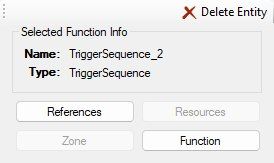
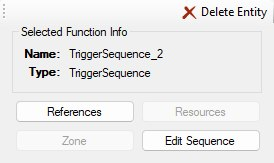
docs

Changed region(s): [[0.5839, 0.8282, 0.8759, 0.8896]]

diff --git a/docs/changelog/index.html b/docs/changelog/index.html
@@ -189,6 +189,7 @@
 				<li>See realtime script activity in the flowgraph including active links and trigger counts via new highlighted links and method/target annotations</li>
 				<li>Trigger methods on entities manually via a new dropdown in the inspector</li>
 				<li>Sync the camera to the viewport to see the in-game camera position in OpenCAGE, or vice-versa</li>
+				<li>Capture new cubemaps for EnvironmentMap entities in-game (one at a time from the inspector, or all at once with File &gt; Recapture All Cubemaps) - they're automatically imported and assigned, replacing the old ones, at their size or one picked in Misc &gt; Cubemap Capture Size</li>
 			</ul></li>
 			<li>Added a new 'Save and Build' (instancing) option in the File menu:<ul>
 				<li>Generates instance-specific materials and properties for static geometry based on materials, remappings, and aliases</li>
@@ -202,6 +203,44 @@
 				<li>Generates environment animation links and other structuring for renderables and resources</li>
 				<li>Generates BVHs for occlusion and lighting</li>
 				<li>Generates environment map links</li>
+			</ul></li>
+			<li>Improved viewport:<ul>
+				<li>Added galaxy rendering in the viewport (which can be disabled) - live syncs to changes in the Galaxy Editor</li>
+				<li>Added a number of material improvements to the viewport (some optional) including planar reflections, cubemaps, and gas giant</li>
+				<li>Viewport now has anti-aliasing options</li>
+				<li>Vast performance improvements in the viewport, with configurable draw distance</li>
+				<li>Improvements to total memory overhead for the viewport</li>
+				<li>Added support for syncing modified resources (textures, models, materials) to the viewport - including newly imported ones</li>
+				<li>Added new options for rendering selected entities: wireframe, transparent wireframe, none</li>
+				<li>Added additional render filters for a variety of Sphere types, and others</li>
+				<li>Added new render filter to show Occlusion Meshes and Collision Meshes</li>
+				<li>Added ability to preview Zones in the viewport (will draw zoned entities in distinct colours when enabled, and highlight nodes)</li>
+				<li>Added new option to show state resources (navmesh, cover positions) in the viewport - will re-sync on rebuild</li>
+				<li>Added ability to highlight all entities in a TriggerSequence in the viewport when selected</li>
+				<li>Added a new 'Create' dropdown in the viewport UI which, when enabled, allows you to click on the viewport to create a new entity at that position</li>
+				<li>Added ability to drag and drop composites into the viewport to place them</li>
+				<li>Added drag-select in the viewport to multi-select entities</li>
+				<li>Added support for multi-select moving of objects in the viewport</li>
+				<li>Added right click in the viewport with appropriate options</li>
+				<li>Added ability to modify splines via the viewport</li>
+				<li>Added a new vertex snapping mode (hold V when dragging, or keep it on from the Transform Snap menu)</li>
+				<li>Added a new surface snapping mode (SHIFT+END keys)</li>
+				<li>Added ability to configure rotation/translation snapping increments</li>
+				<li>Added a new 'drag to duplicate' mode (hold SHIFT when dragging the gizmo)</li>
+				<li>Added ability to move the origin point for transform controls in the viewport (CTRL+SHIFT)</li>
+				<li>World rotation gizmo in viewport now turns with the rotation</li>
+				<li>Added new 'Focus on Selected' and 'Fix Camera on Selected' options for the viewport</li>
+				<li>Improved 'focus on selected' mode in the viewport - it no longer jumps when stepping the hierarchy</li>
+				<li>Added a ruler to measure distances in the viewport</li>
+				<li>Added crash log reporting for the viewport</li>
+				<li>Fixed rotation issue for spotlight previews in the viewport</li>
+				<li>Fixed some memory leaks within the viewport which caused silent crashes</li>
+				<li>Fixed a separate window appearing briefly when viewport initialises</li>
+				<li>Fixed vertex colours in the viewport</li>
+				<li>Fixed a bug where moving an entity in the viewport with multiple transform parameters would update all of them</li>
+				<li>Fixed a bug where force closing OpenCAGE could leave a viewport process open in the background</li>
+				<li>Fixed composites failing to render in the viewport when their models weren't loaded during the initial populate</li>
+				<li>Fixed small composites (pickups and similar) being framed so far away they appeared as a speck</li>
 			</ul></li>
 			<li>New animation clip editor:<ul>
 				<li>Browse all available animations by character or env model and context</li>
@@ -276,6 +315,7 @@
 				<li>Added a purple highlight to parameters which are controlled by CAGEAnimations</li>
 				<li>Zone name now shows on 'Zone' button if one, or opens a list if multiple - this calculation is performed from the root of the active hierarchy</li>
 				<li>Modified utility buttons to be on two rows</li>
+				<li>The Function button is now named after what it does for the selected entity (Edit Tracks, Edit Sequence, Edit Character, Capture)</li>
 			</ul></li>
 			<li>Reworked TriggerSequence editor:<ul>
 				<li>Added support for dragging and dropping TriggerSequence entries</li>
@@ -322,36 +362,22 @@
 			<li>Added support for undo/redo</li>
 			<li>Added ability to render DebugText, DebugTextStacking, DebugEnvironmentMarker, and DebugPositionMarker outputs in-game via an overlay</li>
 			<li>Added a dropdown next to the new back button to view up to five previously loaded composites</li>
-			<li>Added a new 'Create' dropdown in the viewport UI which, when enabled, allows you to click on the viewport to create a new entity at that position</li>
-			<li>Added ability to drag and drop composites into the viewport to place them</li>
 			<li>Added new annotations on nodes - you'll see (P) for ones that are proxied elsewhere, and (*) for ones that have one or more other nodes for the same entity</li>
 			<li>Added a new Blend Set editor for animations</li>
 			<li>Added preview icons for composites in the selector/browser, these will update when you make modifications</li>
-			<li>Added ability to preview Zones in the viewport (will draw zoned entities in distinct colours when enabled, and highlight nodes)</li>
 			<li>Added an improved check for circular dependencies when making new instances</li>
 			<li>Added new tools for automatically reorganising untidy flowgraph pages</li>
 			<li>Added a new 'unsaved changes' tracker, which will highlight in the taskbar when a modification has been made and not saved</li>
-			<li>Added additional render filters for a variety of Sphere types, and others</li>
-			<li>Added new render filter to show Occlusion Meshes and Collision Meshes</li>
 			<li>Added functionality to copy composites (including in-place replacements of instances with copies)</li>
 			<li>Added functionality to de-instance a composite, or create a composite from group selection</li>
-			<li>Added new option to show state resources (navmesh, cover positions) in the viewport - will re-sync on rebuild</li>
-			<li>Added drag-select in the viewport to multi-select entities</li>
-			<li>Added right click in the viewport with appropriate options</li>
 			<li>Added new achievements on Steam, and updated icons of all existing ones</li>
-			<li>Added galaxy rendering in the viewport (which can be disabled) - live syncs to changes in the Galaxy Editor</li>
-			<li>Added a number of material improvements to the viewport (some optional) including planar reflections, cubemaps, and gas giant</li>
 			<li>Added ability to sort the entity list by clicking the columns</li>
 			<li>Added ability to modify damage ranges in the ammo config editor</li>
 			<li>Added controls for the behaviour tree editor to the controls window</li>
-			<li>Added ability to modify splines via the viewport</li>
-			<li>Added support for syncing modified resources (textures, models, materials) to the viewport - including newly imported ones</li>
 			<li>Added ability for child OpenCAGE editors to gain control of directory editing when primary is closed</li>
 			<li>Added auto complete for SwitchLevel level input</li>
 			<li>Added ability to rebind the hot reload key</li>
 			<li>Added functionality to click pins to link them, instead of dragging</li>
-			<li>Added support for multi-select moving of objects in the viewport</li>
-			<li>Added new options for rendering selected entities: wireframe, transparent wireframe, none</li>
 			<li>Added a Voice Mappings editor</li>
 			<li>Added a Level Text Database editor</li>
 			<li>Added a Font Config editor</li>
@@ -363,12 +389,8 @@
 			<li>Added new dotted outline for proxy/alias nodes</li>
 			<li>Added back the legacy Graphics Editor</li>
 			<li>Added warnings if saving fails when updating configs</li>
-			<li>Added a new vertex snapping mode (hold V when dragging, or keep it on from the Transform Snap menu)</li>
-			<li>Added ability to configure rotation/translation snapping increments</li>
 			<li>Added right click to add to TriggerSequence on node</li>
 			<li>Added improved hierarchy navigation in the proxy/alias selector</li>
-			<li>Added a new surface snapping mode (SHIFT+END keys)</li>
-			<li>Added a new 'drag to duplicate' mode (hold SHIFT when dragging the gizmo)</li>
 			<li>Added support for multi-select deletion in the flowgraph, viewport, and entity list</li>
 			<li>Added new 'Unlock Mouse' launch option which toggles allowing the game to steal your cursor</li>
 			<li>Added ability to rename imported models</li>
@@ -381,7 +403,6 @@
 			<li>Added a window to show all links in and out of a script entity on a flowgraph page</li>
 			<li>Added ability to flag vector parameters as colours on composites</li>
 			<li>Added ability to possess characters via launch game (press F6 - rebindable - to select a character to control)</li>
-			<li>Added new 'Focus on Selected' and 'Fix Camera on Selected' options for the viewport</li>
 			<li>Added an option to save when closing with a level open</li>
 			<li>Added some potential improvements for hit testing in the flowgraph view</li>
 			<li>Added argument to allow folder selection when picking game installs</li>
@@ -391,26 +412,19 @@
 			<li>Added ability to create new behaviour trees</li>
 			<li>Added info popup about how the config editors save</li>
 			<li>Added ability to right click and delete referenced instances of an entity</li>
-			<li>Added ability to highlight all entities in a TriggerSequence in the viewport when selected</li>
-			<li>Added a ruler to measure distances in the viewport</li>
 			<li>Added a cooldown when creating backups to prevent causing UI deadlocks</li>
 			<li>Added support for renaming folders in the composite browser</li>
 			<li>Added support for dragging composites/folders to move them in file browser mode</li>
 			<li>Added arrows to point to off-screen highlighted nodes</li>
 			<li>Added a progress UI for multi-export models/textures</li>
 			<li>Added search on the 'Select Destination Pin' window, and now sorted alphabetically</li>
-			<li>Added ability to move the origin point for transform controls in the viewport (CTRL+SHIFT)</li>
 			<li>Added a button to view changelog</li>
 			<li>Added a button to view raw crash logs</li>
-			<li>Added crash log reporting for the viewport</li>
 			<li>Added context-aware positioning of pins on nodes (relays will always have their output in-line with their input)</li>
 			<li>Fixed 'Find References' right click on the entity list</li>
-			<li>Fixed rotation issue for spotlight previews in the viewport</li>
 			<li>Fixed dropdowns sticking on screen</li>
 			<li>Fixed an issue where multiple flowgraph layouts wouldn't appear due to name duplication</li>
-			<li>Fixed some memory leaks within the viewport which caused silent crashes</li>
 			<li>Fixed an issue where viewcones would break upon modification</li>
-			<li>Fixed a separate window appearing briefly when viewport initialises</li>
 			<li>Fixed some cases where resolvable proxies/aliases were discarded</li>
 			<li>Fixed selection steal when using keybinds to navigate UI</li>
 			<li>Fixed a bug where resources were thrown away for Commands BIN</li>
@@ -433,13 +447,8 @@
 			<li>Fixed instances where some popups would unexpectedly close on editor context changes (e.g. selecting a new entity)</li>
 			<li>Fixed a crash when using Ctrl+MMB shortcut in entity hierarchy picker</li>
 			<li>Fixed some minor issues when resizing popups</li>
-			<li>Fixed vertex colours in the viewport</li>
 			<li>Fixed incorrect face ordering in cubemap previews (and added a new spherical preview mode)</li>
 			<li>Fixed grouping in Entity Palette after searching</li>
-			<li>Fixed a bug where moving an entity in the viewport with multiple transform parameters would update all of them</li>
-			<li>Fixed a bug where force closing OpenCAGE could leave a viewport process open in the background</li>
-			<li>Fixed composites failing to render in the viewport when their models weren't loaded during the initial populate</li>
-			<li>Fixed small composites (pickups and similar) being framed so far away they appeared as a speck</li>
 			<li>Fixed disabled checkboxes being unreadable in dark mode</li>
 			<li>Certain entity resources are now auto generated, as such the 'Resources' button only shows for editable ones</li>
 			<li>Reworked the back button - it now takes you to the previously loaded composite, and is no longer relative to the currently loaded hierarchy</li>
@@ -451,14 +460,9 @@
 			<li>Behaviour tree DB in levels are regenerated when saving based on selected trees in the attribute editor</li>
 			<li>Reworked the launch game tool - you can now check to load into a level, otherwise it will load to frontend as normal (clearer)</li>
 			<li>Moved help buttons to the title bar, and linked through to new docs for all forms</li>
-			<li>World rotation gizmo in viewport now turns with the rotation</li>
 			<li>Optimised saving logic, viewport population, and level loading - should be noticeably faster</li>
-			<li>Improved 'focus on selected' mode in the viewport - it no longer jumps when stepping the hierarchy</li>
 			<li>Improved quality of various icons across the UI</li>
 			<li>Selecting an Animation or AnimationSet will fill in the alternate too</li>
-			<li>Improvements to total memory overhead for the viewport</li>
-			<li>Viewport now has anti-aliasing options</li>
-			<li>Vast performance improvements in the viewport, with configurable draw distance</li>
 			<li>NPC_AlienConfig entities now have selection for the config type</li>
 			<li>RewireLocation/Display_Element_On_Map/MapAnchor/Map_Floor_Change entities now have selection for the map elements</li>
 			<li>Deleting all nodes for an entity with no other references can now auto-delete the entity (optional under 'Delete Entities When Nodes Deleted')</li>

diff --git a/docs/scripting-intro/index.html b/docs/scripting-intro/index.html
@@ -186,7 +186,7 @@
         <p>There are hundreds of function entities available to use, ranging from simple mathematical logic to more complex tasks like setting objectives and playing sounds. A full list of function entities and their parameters can be found <a href="https://opencage.co.uk/docs/cathode-entities/">here</a>!</p>
         <p>For programmers: think of function entities as literally executing methods in code - the parameters you give them are just method arguments. For Unreal Engine developers, again this concept should seem very familiar to you with standard Blueprint nodes.</p>
         <p>In the entity list and on the inspector's tab, a function entity shows the icon its type has in the Entity Palette: an icon of its own for the most used types, such as ModelReference, or else its category's. The braces beside this heading are only used for a type with neither.</p>
-        <p>It&rsquo;s worth highlighting that there are three function entities which have an additional editor window, opened with the inspector&rsquo;s <b>Function</b> button: &ldquo;CAGEAnimation&rdquo;, &ldquo;TriggerSequence&rdquo; and &ldquo;Character&rdquo; entities. The <a href="/docs/character-editor/">Character Editor</a> sets how a Character looks and sounds where it&rsquo;s placed: its body parts, skeleton, voice and so on. CAGEAnimation entities are special scripted sequences which contain a timeline and can modify parameters and activate triggers over a specified time period using keyframes and animation curves. TriggerSequence entities define a collection of references to other entities with a specified delay between each reference, this can then be used for a variety of things such as referencing a collection of entities for use in something like a &ldquo;Zone&rdquo;, or for triggering a parameter on those entities with a delay (for example, triggering a sequence of &ldquo;LightReference&rdquo; entities to turn on 1 second apart).</p>
+        <p>It&rsquo;s worth highlighting that there are three function entities which have an additional editor window, opened with the inspector&rsquo;s function button (named <b>Edit Tracks</b>, <b>Edit Sequence</b> or <b>Edit Character</b> after what it opens): &ldquo;CAGEAnimation&rdquo;, &ldquo;TriggerSequence&rdquo; and &ldquo;Character&rdquo; entities. The <a href="/docs/character-editor/">Character Editor</a> sets how a Character looks and sounds where it&rsquo;s placed: its body parts, skeleton, voice and so on. CAGEAnimation entities are special scripted sequences which contain a timeline and can modify parameters and activate triggers over a specified time period using keyframes and animation curves. TriggerSequence entities define a collection of references to other entities with a specified delay between each reference, this can then be used for a variety of things such as referencing a collection of entities for use in something like a &ldquo;Zone&rdquo;, or for triggering a parameter on those entities with a delay (for example, triggering a sequence of &ldquo;LightReference&rdquo; entities to turn on 1 second apart).</p>
         <p>You may now be asking &ndash; what is a Zone? Cathode utilises something known as &ldquo;level streaming&rdquo;, which is a way of loading chunks of a level at runtime, rather than loading the entire thing at once. Zone entities are the key to this level streaming system &ndash; each Zone defines a collection of entities within it (typically &ldquo;ModelReference&rdquo; entities) which are then rendered/loaded when the Zone is active, and not when it&rsquo;s inactive. This system is key to keeping memory overheads down in larger levels.</p>
         <p>There are a variety of other specifics to dive into for other function entity types as you may expect, since they all perform bespoke logic that can have its own edge cases. The OpenCAGE docs don&rsquo;t currently go into each and every function type as there are hundreds to cover, so recommended practice is to infer for yourself. Typically the names are pretty self explanatory &ndash; that, tied with reading and understanding the list of available parameters should probably be enough to get the function&rsquo;s purpose. You can additionally switch the <b>Search</b> panel to <b>Function Entities</b> and pick a function type to list the entities of that type in the composite you opened and everything it instances (from the root composite, that&rsquo;s everything placed in the level), or pick <b>Search All Composites</b> from the cog at the panel&rsquo;s top right to list them in every composite. That should give you good context surrounding the usage and setup of each. Don&rsquo;t forget as well, the <a href="https://discord.gg/JJ4ECu9hpY">OpenCAGE Discord</a> is always on hand to help!</p>
     </section>
@@ -282,7 +282,7 @@
 			<li><b>Purple value cell</b> — this parameter is driven by a <a href="/docs/cage-animation-editor/">CAGEAnimation</a> somewhere in the hierarchy you're in. The value here is what the entity rests at when nothing is playing; while the animation runs it's overwritten outright by the keyframe values (they're absolute, not offsets from this), so the animation needn't start from what the inspector shows.</li>
 		</ul>
 		<p>Those highlights are worth taking seriously: "I changed the value and nothing happened" is nearly always one of them.</p>
-		<p>Above the parameters, the <b>Zone</b> button tells you which <a href="#function-entities">Zone</a> the entity is streamed with, worked out from the root of the hierarchy you've stepped through. It reads <b>Zone (<i>name</i>)</b> when the entity is in one zone and <b>Zones (<i>N</i>)</b> when it's in several (click it to pick which to go to); a long name can run off the button, so hover it for the name in full. It's a greyed-out <b>Zone</b> when the entity isn't in any, as in the <a href="#creating-script">tutorial picture</a> below. <b>References</b> finds every node, alias and proxy for the entity, and <b>Resources</b> edits the resources attached to it (it's greyed out for a type that has none, such as a PopupMessage). <b>Function</b> opens the editor for the types that have one of their own: the <a href="/docs/cage-animation-editor/">CAGEAnimation</a>, <a href="/docs/trigger-sequence-editor/">TriggerSequence</a> and <a href="/docs/character-editor/">Character</a> editors, the TriggerSequence one for a proxy to a TriggerSequence too. For a composite instance, <b>Go</b> steps into it; for a proxy or alias, it takes you to the entity it points at. <b>Delete Entity</b> sits at the top.</p>
+		<p>Above the parameters, the <b>Zone</b> button tells you which <a href="#function-entities">Zone</a> the entity is streamed with, worked out from the root of the hierarchy you've stepped through. It reads <b>Zone (<i>name</i>)</b> when the entity is in one zone and <b>Zones (<i>N</i>)</b> when it's in several (click it to pick which to go to); a long name can run off the button, so hover it for the name in full. It's a greyed-out <b>Zone</b> when the entity isn't in any, as in the <a href="#creating-script">tutorial picture</a> below. <b>References</b> finds every node, alias and proxy for the entity, and <b>Resources</b> edits the resources attached to it (it's greyed out for a type that has none, such as a PopupMessage). The button beside them is named after what it does for the selected entity: <b>Edit Tracks</b> opens the <a href="/docs/cage-animation-editor/">CAGEAnimation Editor</a>, <b>Edit Sequence</b> the <a href="/docs/trigger-sequence-editor/">TriggerSequence Editor</a> (for a proxy to a TriggerSequence too), <b>Edit Character</b> the <a href="/docs/character-editor/">Character Editor</a>, and on an EnvironmentMap, <b>Capture</b> <a href="/docs/live-link/#capture-cubemaps">captures its cubemap</a> in the running game. For any other entity it reads <b>Function</b> and is greyed out. For a composite instance, <b>Go</b> steps into it; for a proxy or alias, it takes you to the entity it points at. <b>Delete Entity</b> sits at the top.</p>
 		<p>The references window is also where you take a reference away: right-click a row (or select several and press <b>Delete</b>) to delete the alias or proxy, remove the entity from that TriggerSequence or CAGEAnimation, or clear its nodes from that flowgraph. Each removal is an undo step, and the lists update as you go.</p>
 		<p>For a proxy, the toolbar also has <b>Change Target</b>, which opens the proxy picker to point it at a different entity while keeping its links and parameters. The path shown under the name is where the proxy leads; for an <a href="/docs/composite-porting/#unresolvable-proxies">unresolvable proxy</a> it stops at the first hop that no longer exists, marked <b>MISSING</b>.</p>
 		<p>While <a href="/docs/live-link/">Live Link</a> is connected to the running game, the toolbar also starts with <b>▶ Trigger Method</b>, a dropdown of every method the entity has (<b>start</b>, <b>stop</b>, <b>pause</b>, <b>resume</b>... on a DebugTextStacking). It needs a single entity selected, and one with methods. Pick a method and it's triggered on the entity in the game, in the instance you stepped down to from the level's root, or in every running instance if you opened the composite on its own. Right-clicking a method pin on the flowgraph does the same for that one method (see <a href="#node-annotations">Reading the Flowgraph</a>). See <a href="/docs/live-link/#calling-methods">Triggering Methods</a>.</p>

diff --git a/docs/live-link/index.html b/docs/live-link/index.html
@@ -107,6 +107,7 @@
 <li class="nav-item"><a class="nav-link scrollto" href="#activity-instance">Which Instance</a></li>
 <li class="nav-item"><a class="nav-link scrollto" href="#activity-limits">Limits</a></li>
 <li class="nav-item section-title"><a class="nav-link scrollto" href="#camera"><span class="theme-icon-holder me-2"><i class="fas fa-scroll"></i></span>Live Link Camera</a></li>
+<li class="nav-item section-title"><a class="nav-link scrollto" href="#capture-cubemaps"><span class="theme-icon-holder me-2"><i class="fas fa-scroll"></i></span>Capturing Environment Maps</a></li>
 <li class="nav-item section-title"><a class="nav-link scrollto" href="#ai-assistants"><span class="theme-icon-holder me-2"><i class="fas fa-scroll"></i></span>AI Assistants</a></li>
 <li class="nav-item section-title"><a class="nav-link scrollto" href="#troubleshooting"><span class="theme-icon-holder me-2"><i class="fas fa-scroll"></i></span>Troubleshooting</a></li>
 <li class="nav-item"><a class="nav-link scrollto" href="#status-messages">What the Status Bar Says</a></li>
@@ -465,6 +466,36 @@
     </section>
 </article>
 
+<article class="docs-article" id="capture-cubemaps">
+    <header class="docs-header">
+<h1 class="docs-heading">Capturing Environment Maps</h1>
+    </header>
+
+	<section class="docs-section" style="padding-top:0;">
+		<p>An <b>EnvironmentMap</b> entity gives the models it's linked to a cubemap to reflect: a picture of the room all around a point, taken from where the entity is. When you change a room, its reflections still show the room as it was. Live Link can take a new one in the running game, showing the room as it is now.</p>
+		<p>While connected, select an EnvironmentMap entity and press <b>Capture</b> in the <a href="/docs/scripting-intro/#inspector">Entity Inspector</a> (the button that reads <b>Function</b> for most entities; it's greyed out while Live Link isn't connected, and reads <b>Capturing...</b> while a capture runs). It takes a few seconds:</p>
+		<ol>
+			<li>The game moves its camera to the entity's position and streams in the zones around it (the overlay in the game says what it's waiting for).</li>
+			<li>It draws the six views of a cube from there, each 90 degrees wide (+X, -X, +Y, -Y, +Z, -Z), and sends them to OpenCAGE. The game's HUD is hidden while it does, and so are the lens effects that don't belong in a reflection: film grain, vignette, chromatic aberration, lens distortion and depth of field. Then the game gets its camera back.</li>
+			<li>OpenCAGE builds a cubemap shaped like the game's own: the size and format of the one it replaces (the game's are all 128 × 128 faces, nearly all in DXT1), with mip levels down to 2 × 2, each level blurred more than the last the way the game's are, so rough surfaces show a soft reflection and shiny ones a sharp one.</li>
+			<li>It's added to the level's textures as <code>ayz\env\cubemaps\<i>level</i>\<i>composite</i>\<i>composite</i>_<i>entity</i>.dds</code> (with a number on the end if that's taken), and the entity's <b>Texture</b> is set to it.</li>
+			<li>The cubemap the entity used before is deleted if nothing else uses it: no other entity names it, no material uses it, and it isn't one of the GLOBAL textures every level carries. The models that were reflecting it are given the new one.</li>
+		</ol>
+		<p>To capture at another size, pick one under <b>Options &gt; Misc &gt; Cubemap Capture Size</b>: 64, 128, 256 or 512 pixels a face, or <b>Same as the Cubemap Replaced</b> (the default). A bigger cubemap gives mirror-like surfaces a sharper reflection, and leaves rough ones as blurred as before. The faces are cut from the game's picture, so its window needs to be at least as tall as them; if it isn't, they're stretched up and the status bar says so.</p>
+		<p>It's one step on the undo history: undo takes the new cubemap out and puts the old one, and the entity's Texture, back. The status bar says <b>Live Link: Captured <i>entity</i>'s cubemap at (<i>x</i>, <i>y</i>, <i>z</i>) as <i>texture</i></b>, or why it couldn't.</p>
+		<p><b>To see it in the game, save, then load the level again</b>: the game reads cubemaps when it loads a level. If the old cubemap is still used by another EnvironmentMap, the models this one lights keep it until a <a href="/docs/save-and-build/">Save &amp; Build</a> works out again which cubemap each model reflects, and the status bar asks for one.</p>
+		<p><b>File &gt; Recapture All Cubemaps</b>, below Export Composites, does the same for every EnvironmentMap in the level, one after another, with a progress bar (a few seconds each: a level with 50 takes about four minutes). Keep the game running and unpaused meanwhile; the editor stays usable. Choose it again (it reads <b>Stop Recapturing Cubemaps</b>) to stop after the one being captured. It stops by itself if the game turns a capture away, and skips any EnvironmentMap whose composite is used in more than one place, or not at all. Each cubemap is its own step on the undo history, and a summary at the end says how many it captured, which it couldn't and why, and whether to save or Save &amp; Build.</p>
+		<p>The capture is taken from where the entity is in the level: through the instances you stepped down through from the root composite (the path at the top of the composite panel), or, if you opened its composite on its own, the one place that composite is used. A composite used in more than one place has to be opened from the root, so OpenCAGE knows which one to take it from.</p>
+		<ul>
+			<li><b>Capture with the game running.</b> Zones don't stream in while the game is paused, so a capture is turned away while the pause menu is open, and stops if the game is paused part way through.</li>
+			<li><b>The game ignores its keyboard and mouse while it captures</b>, so clicking into its window to watch doesn't move or turn the player, and the cursor stays free over it (as with <a href="/docs/launch-game/#scripting-helpers">Unlock Mouse</a>). Escape still works: press it in the game to stop a capture, as the pause menu ends it. A gamepad isn't held back.</li>
+			<li><b>It shows the room as the game draws it now</b>: lights that are off, doors that are shut and anything else in the level's current state are in the picture. The game's own cubemaps were made when the level was built, under its lighting then, so a new one often looks darker or a different colour from the one it replaces.</li>
+			<li><b>Anything right next to the entity fills part of the picture</b>, as it would a mirror there. Move the entity if something gets in the way.</li>
+			<li><b>Game logic sees the capture's camera</b> for those few seconds, as it does the Viewport's camera with <a href="#camera">Live Link Camera</a>: anything checking what the player can see reacts to where the capture looks.</li>
+		</ul>
+	</section>
+</article>
+
 <article class="docs-article" id="ai-assistants">
     <header class="docs-header">
 <h1 class="docs-heading">AI Assistants</h1>
@@ -476,6 +507,7 @@
 			<li><code>runtime_utils</code>: the connection's status, connect and disconnect; what the game is running and where its camera is; push a composite; call a method on an entity; hold or play a CAGEAnimation in the game, as <a href="/docs/cage-animation-editor/">Animation Mode</a> does (<code>animate</code>); describe a composite's running instances; take a screenshot of the game; load a level; and <a href="#activity">Show Activity</a> (<code>activity</code>): switch it on or off, clear it, or list the links the game has used in the open composite, with how often and how long ago, and how many times each output fired and each method was called.</li>
 			<li><code>set_viewport_view</code> with <code>live_link_camera</code>: the Live Link Camera choice, <code>disabled</code>, <code>viewport_to_game</code> or <code>game_to_viewport</code>. Set it after connecting: it goes back to <code>disabled</code> whenever Live Link connects.</li>
 			<li><code>set_viewport_camera</code>: puts the Viewport's camera at a position and direction, and the game's with it while the game follows the Viewport.</li>
+			<li><code>capture_environment_maps</code>: <a href="#capture-cubemaps">captures cubemaps</a> for one or more EnvironmentMap entities, a composite's, or every one in the level, one after another, with the same steps as the Capture button (<code>all_in_level</code> is Recapture All Cubemaps). It can also take a face size (otherwise Cubemap Capture Size's, which <code>editor_options</code> sets too), a format, how long to wait for zones, and keep the HUD, the lens effects or the old cubemaps.</li>
 			<li><code>launch_options</code> with <code>live_link</code>: the Enable Live Link box.</li>
 		</ul>
     </section>

diff --git a/docs/ai-assistants/index.html b/docs/ai-assistants/index.html
@@ -199,7 +199,7 @@
 		<table class="table table-bordered">
 			<thead><tr><th>Area</th><th>Tools</th></tr></thead>
 			<tbody>
-				<tr><td>Levels &amp; game</td><td><code>get_editor_state</code>, <code>list_levels</code>, <code>load_level</code>, <code>create_level</code> (optionally importing composites), <code>duplicate_level</code>, <code>delete_level</code>, <code>diff_level</code> (what has changed since the last save or a backup), <code>save_level</code> (optionally <a href="/docs/save-and-build/">Save &amp; Build</a>, choosing which bakers run), <code>list_backups</code>, <code>create_backup</code>, <code>restore_backup</code>, <code>delete_backups</code>, <code>launch_game</code>, <code>launch_options</code>, <code>close_game</code>, <code>game_directories</code>, <code>get_player_setup</code>, <code>set_player_start</code> (where the player starts, and with what), <code>runtime_utils</code> (<a href="/docs/live-link/#ai-assistants">Live Link</a> to the running game)</td></tr>
+				<tr><td>Levels &amp; game</td><td><code>get_editor_state</code>, <code>list_levels</code>, <code>load_level</code>, <code>create_level</code> (optionally importing composites), <code>duplicate_level</code>, <code>delete_level</code>, <code>diff_level</code> (what has changed since the last save or a backup), <code>save_level</code> (optionally <a href="/docs/save-and-build/">Save &amp; Build</a>, choosing which bakers run), <code>list_backups</code>, <code>create_backup</code>, <code>restore_backup</code>, <code>delete_backups</code>, <code>launch_game</code>, <code>launch_options</code>, <code>close_game</code>, <code>game_directories</code>, <code>get_player_setup</code>, <code>set_player_start</code> (where the player starts, and with what), <code>runtime_utils</code> (<a href="/docs/live-link/#ai-assistants">Live Link</a> to the running game), <code>capture_environment_maps</code> (<a href="/docs/live-link/#capture-cubemaps">captures EnvironmentMap cubemaps</a> in the running game)</td></tr>
 				<tr><td>Undo &amp; activity</td><td><code>undo</code>, <code>redo</code>, <code>undo_group</code> (makes several requests one undo step), <code>get_undo_history</code>, <code>get_activity</code> (what the assistant's last requests did, and how far a long one has got)</td></tr>
 				<tr><td>Finding things</td><td><code>find_composites</code>, <code>get_composite</code>, <code>describe_entity</code>, <code>get_effective_parameters</code> (the values a placement really ends up with, after aliases and links), <code>get_instance_overrides</code>, <code>find_entities</code> (by name, type, value or place, forgiving misspellings), <code>find_references</code>, <code>trace_links</code> (what drives an entity, and what it drives, across composites), <code>find_links</code>, <code>get_placements</code>, <code>list_dead_proxies</code>, <code>list_function_types</code>, <code>describe_function_type</code>, <code>get_usage_patterns</code> (how the shipped levels wire up a function type or archetype), <code>list_enums</code>, <code>list_enum_string_values</code></td></tr>
 				<tr><td>Rooms &amp; the world</td><td><code>find_places</code> (a room by name: a zone, a composite, an instance or a model), <code>get_bounds</code>, <code>raycast</code> (rays, the floor under a point, line of sight), <code>sample_space</code> (points on a room's free floor: its centre, a loop round it clear of the walls, a grid), <code>transform_points</code> (between world and composite space, and rotations that look at a point), <code>drop_to_floor</code>, <code>query_navmesh</code> (nearest point, reachability, path length), <code>export_region_collision</code>. These read the level's collision as it stands in the editor, unsaved changes included, with or without the Viewport. <code>query_navmesh</code> is the exception: it reads the navmesh as the last <a href="/docs/save-and-build/">Save &amp; Build</a> made it.</td></tr>

diff --git a/docs/trigger-sequence-editor/index.html b/docs/trigger-sequence-editor/index.html
@@ -126,11 +126,11 @@
 	<section class="docs-section" style="padding-top:0;">
 		<ol>
 			<li>Select a <code>TriggerSequence</code> entity in the composite list or flowgraph.</li>
-			<li>In the <b>Entity Inspector</b>, click <b>Function</b> (pictured below). The button is only enabled for entity types that have their own editor — TriggerSequence, CAGEAnimation and Character — and for a <b>proxy</b> to a TriggerSequence: a proxy carries its own copy of the sequence and method lists, and the editor edits those.</li>
+			<li>In the <b>Entity Inspector</b>, click <b>Edit Sequence</b> (pictured below). That button is named after what it does for the selected entity: <b>Edit Sequence</b> for a TriggerSequence, and for a <b>proxy</b> to one (a proxy carries its own copy of the sequence and method lists, and the editor edits those); <b>Edit Tracks</b> for a CAGEAnimation; <b>Edit Character</b> for a Character; <b>Capture</b> for an EnvironmentMap (see <a href="/docs/live-link/#capture-cubemaps">Capturing Environment Maps</a>). For anything else it reads <b>Function</b> and is greyed out.</li>
 			<li>The TriggerSequence Editor opens, titled with that entity’s name.</li>
 		</ol>
-		<p><img src="img/inspector-function.jpg" alt="The Entity Inspector with a TriggerSequence selected, showing the Function button that opens the editor." style="max-width:100%;width:274px"></p>
-		<p class="text-muted small"><i>The inspector with TriggerSequence_2 selected. Function is only enabled for entity types with a dedicated editor.</i></p>
+		<p><img src="img/inspector-function.jpg" alt="The Entity Inspector with a TriggerSequence selected, showing the Edit Sequence button that opens the editor." style="max-width:100%;width:274px"></p>
+		<p class="text-muted small"><i>The inspector with TriggerSequence_2 selected.</i></p>
 		<p>Edits apply directly to the selected entity while the window is open. The window closes if you reload commands, select a different entity, or switch composite.</p>
     </section>
 </article>

diff --git a/docs/options/index.html b/docs/options/index.html
@@ -216,6 +216,7 @@
 			<li><b>Write Compressed</b> — status only: shows whether the loaded level's Commands are compressed. Not user-togglable.</li>
 			<li><b>Reset Render Filters On Load</b> — when loading a level, turns all Viewport render filters off (shown only if the Viewport is available; off by default).</li>
 			<li><b>Always Fully Rebuild Radiosity</b> — every save rebuilds the level's radiosity from scratch, rather than keeping the existing lighting and only baking what changed. It's slower, and it replaces the game's own lighting in areas you haven't touched too. Once a level has been fully rebuilt, later saves keep fully rebuilding it even with this off (off by default). See <a href="/docs/save-and-build/#radiosity">How Radiosity is Handled</a>.</li>
+			<li><b>Cubemap Capture Size</b> — the size of each face of the cubemaps <a href="/docs/live-link/#capture-cubemaps">captured in the game</a> over Live Link: <b>Same as the Cubemap Replaced</b> (the default; the game's own are all 128 × 128), or 64, 128, 256 or 512 pixels. Bigger is sharper on mirror-like surfaces and takes more memory; the game's window needs to be at least as tall as the faces.</li>
 			<li><b>Allow AI Assistants (MCP)</b> — lets AI assistants such as Claude drive OpenCAGE through <code>OpenCAGE.MCP.exe</code>. Only programs running as you, on this PC, can connect (on by default). While an assistant is working, the status bar says so. See <a href="/docs/ai-assistants/">AI Assistants</a>, and <a href="/docs/ai-assistants/#working">While It Works</a> for that label and the question when you close OpenCAGE mid-task.</li>
 		</ul>
 		<p>Saving an uncompressed level now always writes both the PAK and BIN forms of the Commands data — that used to be an option here and no longer is. Compressed levels still save as BIN only.</p>

diff --git a/docs/cage-animation-editor/index.html b/docs/cage-animation-editor/index.html
@@ -132,7 +132,7 @@
 	<section class="docs-section" style="padding-top:0;">
 		<ol>
 			<li>Select a <a href="/docs/cathode-entities/#CAGEAnimation">CAGEAnimation</a> entity in the composite list or flowgraph.</li>
-			<li>In the <b>Entity Inspector</b>, click <b>Function</b>.</li>
+			<li>In the <b>Entity Inspector</b>, click <b>Edit Tracks</b>.</li>
 			<li>The CAGEAnimation Editor opens on that entity. Every change is written to it as you make it, and each one is an undo step — there's no separate save. <b>Close</b> closes the window.</li>
 		</ol>
 		<p>While the editor is open you can jump to linked entities (for example from an Animation Entity binding) without closing the window. Edits still go to the original <code>CAGEAnimation</code> by ID.</p>

diff --git a/docs/character-editor/index.html b/docs/character-editor/index.html
@@ -125,7 +125,7 @@
 	<section class="docs-section" style="padding-top:0;">
 		<ol>
 			<li>Select a <a href="/docs/cathode-entities/#Character">Character</a> entity in the entity list or flowgraph.</li>
-			<li>In the <b>Entity Inspector</b>, click <b>Function</b>.</li>
+			<li>In the <b>Entity Inspector</b>, click <b>Edit Character</b>.</li>
 			<li>The Character Editor opens for that entity, as shown below.</li>
 		</ol>
 		<p>The window closes if you reload commands, select a different entity, or switch composite.</p>
